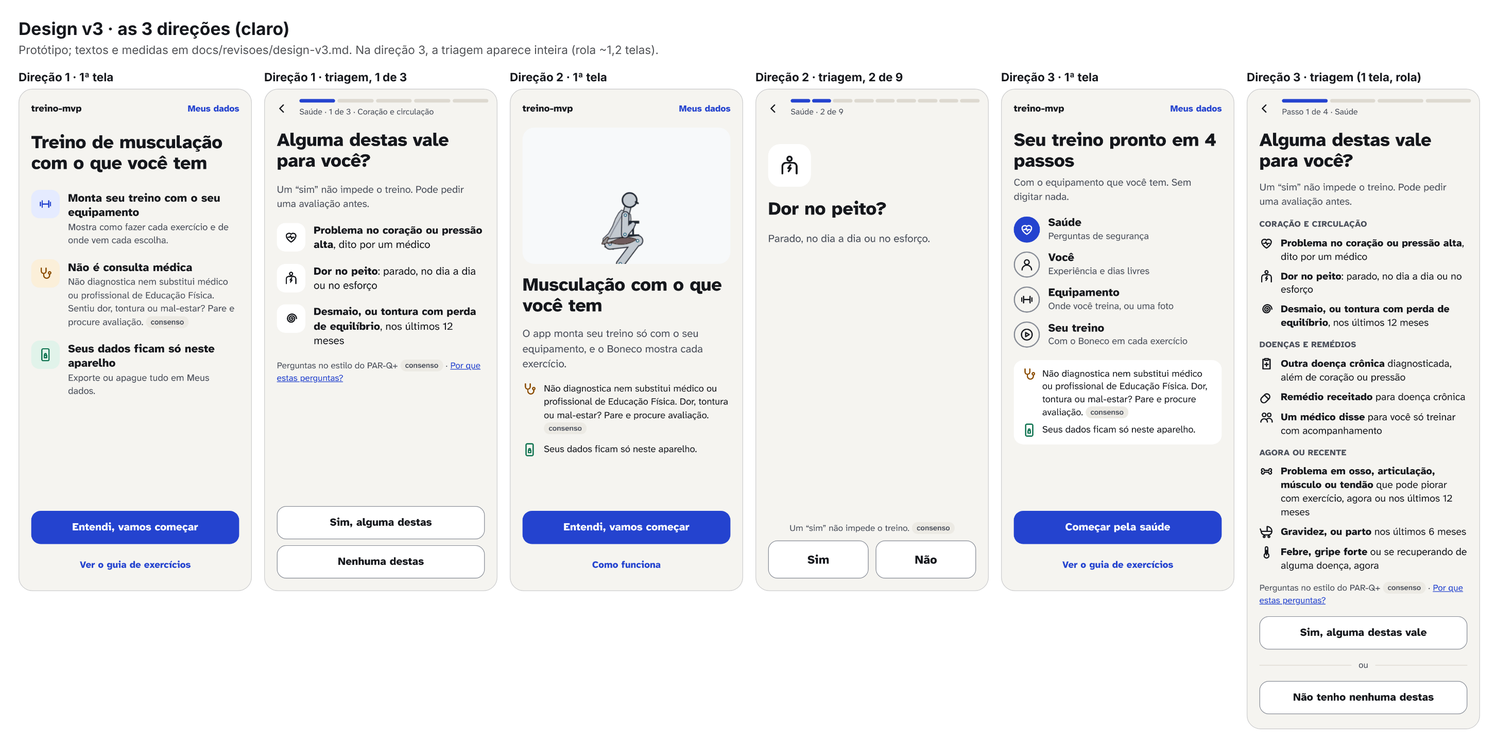
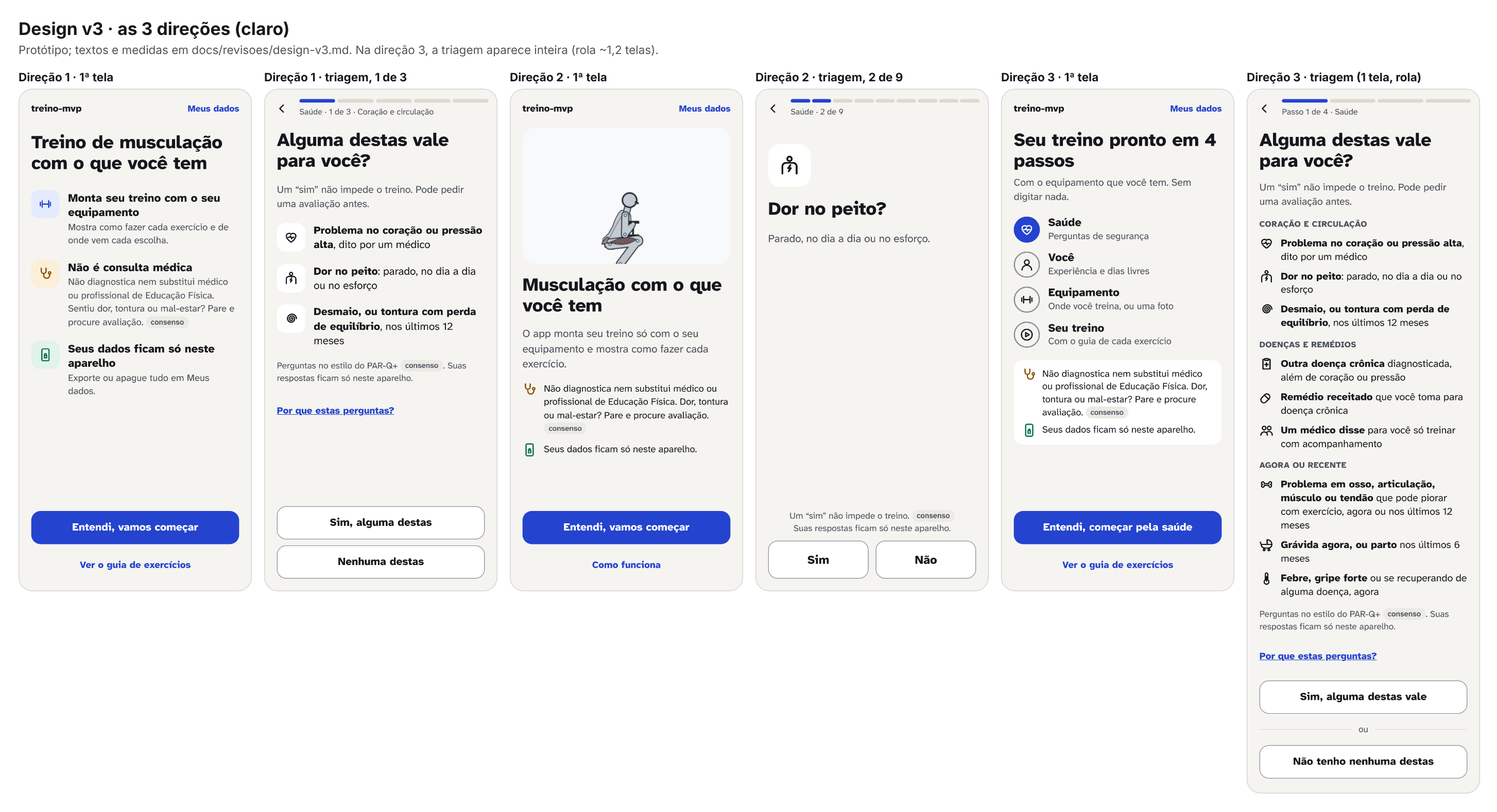
Aplica o parecer do guardião: critérios completos na triagem, selos corrigidos e a tela de pausa na decisão
Claude-Session: https://claude.ai/code/session_01WdnfTdvYNnthEXvVbN3fL1

diff --git a/docs/revisoes/design-v3/canvas/D3.dc.html b/docs/revisoes/design-v3/canvas/D3.dc.html
@@ -47,6 +47,7 @@ a{color:var(--acc)}a:hover{color:var(--ink)}
 .ou{display:flex;align-items:center;gap:12px;color:var(--ink2);font-size:15px}
 .ou::before,.ou::after{content:"";flex:1;height:1px;background:var(--line)}
 .nota{margin:0;font-size:15px;color:var(--ink2)}
+.linha48{display:flex;align-items:center;min-height:48px;font-weight:700;font-size:16px}
 .caixa{background:var(--surface);border-radius:16px;padding:16px 18px;display:flex;flex-direction:column;gap:8px}
 </style>
 </helmet>
@@ -63,7 +64,7 @@ a{color:var(--acc)}a:hover{color:var(--ink)}
 <li><span class="marco on"><svg class="ic" viewBox="0 0 24 24" aria-hidden="true"><path d="M12 20s-8-4.6-8-10.5A4.5 4.5 0 0 1 12 7a4.5 4.5 0 0 1 8 2.5C20 15.4 12 20 12 20zM7 12h2.5l1.5-2.5 2 5 1.5-2.5H17"></path></svg></span><div><b>Saúde</b><span class="d">Perguntas de segurança</span></div></li>
 <li><span class="marco"><svg class="ic" viewBox="0 0 24 24" aria-hidden="true"><circle cx="12" cy="8" r="4"></circle><path d="M4 21a8 8 0 0 1 16 0"></path></svg></span><div><b>Você</b><span class="d">Experiência e dias livres</span></div></li>
 <li><span class="marco"><svg class="ic" viewBox="0 0 24 24" aria-hidden="true"><path d="M6.5 6.5v11M17.5 6.5v11M3.5 9v6M20.5 9v6M6.5 12h11"></path></svg></span><div><b>Equipamento</b><span class="d">Onde você treina, ou uma foto</span></div></li>
-<li><span class="marco"><svg class="ic" viewBox="0 0 24 24" aria-hidden="true"><circle cx="12" cy="12" r="9"></circle><path d="M10 8.5v7l6-3.5z"></path></svg></span><div><b>Seu treino</b><span class="d">Com o Boneco em cada exercício</span></div></li>
+<li><span class="marco"><svg class="ic" viewBox="0 0 24 24" aria-hidden="true"><circle cx="12" cy="12" r="9"></circle><path d="M10 8.5v7l6-3.5z"></path></svg></span><div><b>Seu treino</b><span class="d">Com o guia de cada exercício</span></div></li>
 </ul>
 <div class="ressalvas">
 <p><svg class="ic" viewBox="0 0 24 24" aria-hidden="true" style="color: var(--warn);"><path d="M5 3v5a4 4 0 0 0 8 0V3M9 12v3a5 5 0 0 0 10 0v-2"></path><circle cx="19" cy="11" r="2"></circle></svg><span>Não diagnostica nem substitui médico ou profissional de Educação Física. Dor, tontura ou mal-estar? Pare e procure avaliação. <span class="selo">consenso</span></span></p>
@@ -71,7 +72,7 @@ a{color:var(--acc)}a:hover{color:var(--ink)}
 </div>
 </div>
 <div class="pe">
-<button class="btn pri" type="button" onClick="{{comecar}}">Começar pela saúde</button>
+<button class="btn pri" type="button" onClick="{{comecar}}">Entendi, começar pela saúde</button>
 <button class="link" type="button">Ver o guia de exercícios</button>
 </div>
 </sc-if>
@@ -97,7 +98,8 @@ a{color:var(--acc)}a:hover{color:var(--ink)}
 </ul>
 </div>
 </sc-for>
-<p class="nota">Perguntas no estilo do PAR-Q+ <span class="selo">consenso</span> · <a href="#">Por que estas perguntas?</a></p>
+<p class="nota">Perguntas no estilo do PAR-Q+ <span class="selo">consenso</span>. Suas respostas ficam só neste aparelho.</p>
+<a class="linha48" href="#">Por que estas perguntas?</a>
 <button class="btn sec" type="button" onClick="{{sim}}">Sim, alguma destas vale</button>
 <div class="ou">ou</div>
 <button class="btn sec" type="button" onClick="{{nenhuma}}">Não tenho nenhuma destas</button>
@@ -134,11 +136,11 @@ var GRUPOS = [
     { d: 'M12 12a1.5 1.5 0 0 1 3 0a3 3 0 0 1-6 0a4.5 4.5 0 0 1 9 0a6 6 0 0 1-12 0a7.5 7.5 0 0 1 15 0', b: 'Desmaio, ou tontura com perda de equilíbrio', r: ', nos últimos 12 meses' } ] },
   { nome: 'Doenças e remédios', itens: [
     { d: 'M9 3h6v3H9zM8 4.5H6v16h12v-16h-2M12 10v6M9 13h6', b: 'Outra doença crônica', r: ' diagnosticada, além de coração ou pressão' },
-    { d: 'M10.5 20.5a5 5 0 0 1-7-7l6-6a5 5 0 0 1 7 7zM8.5 8.5l7 7', b: 'Remédio receitado', r: ' para doença crônica' },
+    { d: 'M10.5 20.5a5 5 0 0 1-7-7l6-6a5 5 0 0 1 7 7zM8.5 8.5l7 7', b: 'Remédio receitado', r: ' que você toma para doença crônica' },
     { d: circ(8, 8, 3) + circ(16.5, 8, 3) + 'M2.5 20a5.5 5.5 0 0 1 11 0M12 15.5a5.5 5.5 0 0 1 9.5 4.5', b: 'Um médico disse', r: ' para você só treinar com acompanhamento' } ] },
   { nome: 'Agora ou recente', itens: [
     { d: 'M8 10.5h8a2.3 2.3 0 1 1 2.6 1.5 2.3 2.3 0 1 1-2.6 1.5H8a2.3 2.3 0 1 1-2.6-1.5A2.3 2.3 0 1 1 8 10.5z', b: 'Problema em osso, articulação, músculo ou tendão', r: ' que pode piorar com exercício, agora ou nos últimos 12 meses' },
-    { d: 'M13 3a8 8 0 0 1 8 8h-8zM3 11h18a6 6 0 0 1-6 6H9a6 6 0 0 1-6-6zM3 11 1.5 7' + circ(8, 20, 1.5) + circ(16, 20, 1.5), b: 'Gravidez, ou parto', r: ' nos últimos 6 meses' },
+    { d: 'M13 3a8 8 0 0 1 8 8h-8zM3 11h18a6 6 0 0 1-6 6H9a6 6 0 0 1-6-6zM3 11 1.5 7' + circ(8, 20, 1.5) + circ(16, 20, 1.5), b: 'Grávida agora, ou parto', r: ' nos últimos 6 meses' },
     { d: 'M14 14.5V5a2 2 0 0 0-4 0v9.5a4 4 0 1 0 4 0zM12 9v8', b: 'Febre, gripe forte', r: ' ou se recuperando de alguma doença, agora' } ] }
 ];
 class Component extends DCLogic {

diff --git a/docs/revisoes/design-v3/canvas/D2.dc.html b/docs/revisoes/design-v3/canvas/D2.dc.html
@@ -52,7 +52,7 @@ a{color:var(--acc)}a:hover{color:var(--ink)}
 <div class="corpo" style="padding-top: 8px;">
 <div class="heroi"><img src="{{boneco}}" alt="O Boneco, o guia animado do app, fazendo um agachamento"></div>
 <h1 class="h1">Musculação com o que você tem</h1>
-<p class="sub">O app monta seu treino só com o seu equipamento, e o Boneco mostra cada exercício.</p>
+<p class="sub">O app monta seu treino só com o seu equipamento e mostra como fazer cada exercício.</p>
 <ul class="garantias">
 <li><svg class="ic" viewBox="0 0 24 24" aria-hidden="true" style="color: var(--warn);"><path d="M5 3v5a4 4 0 0 0 8 0V3M9 12v3a5 5 0 0 0 10 0v-2"></path><circle cx="19" cy="11" r="2"></circle></svg><span>Não diagnostica nem substitui médico ou profissional de Educação Física. Dor, tontura ou mal-estar? Pare e procure avaliação. <span class="selo">consenso</span></span></li>
 <li><svg class="ic" viewBox="0 0 24 24" aria-hidden="true" style="color: var(--ok);"><rect x="6" y="2" width="12" height="20" rx="2"></rect><path d="M10 13h4v4h-4zM10.5 13v-1.5a1.5 1.5 0 0 1 3 0V13"></path></svg><span>Seus dados ficam só neste aparelho.</span></li>
@@ -81,7 +81,7 @@ a{color:var(--acc)}a:hover{color:var(--ink)}
 <p class="sub">{{c.det}}</p>
 </div>
 <div class="pe">
-<p class="nota" style="text-align: center;">Um “sim” não impede o treino. <span class="selo">consenso</span></p>
+<p class="nota" style="text-align: center;">Um “sim” não impede o treino. <span class="selo">consenso</span><br>Suas respostas ficam só neste aparelho.</p>
 <div class="sn"><button type="button" class="{{clsSim}}" onClick="{{sim}}">Sim</button><button type="button" class="{{clsNao}}" onClick="{{nao}}">Não</button></div>
 </div>
 </sc-if>
@@ -114,7 +114,7 @@ var CONDS = [
   { d: circ(12, 4.5, 2.5) + 'M4 21v-8a4 4 0 0 1 4-4h8a4 4 0 0 1 4 4v8M13 11.5l-2.5 3.5h3L11 18.5', t: 'Dor no peito?', det: 'Parado, no dia a dia ou no esforço.' },
   { d: 'M12 12a1.5 1.5 0 0 1 3 0a3 3 0 0 1-6 0a4.5 4.5 0 0 1 9 0a6 6 0 0 1-12 0a7.5 7.5 0 0 1 15 0', t: 'Desmaio ou tontura?', det: 'Desmaio, ou tontura com perda de equilíbrio, nos últimos 12 meses.' },
   { d: 'M9 3h6v3H9zM8 4.5H6v16h12v-16h-2M12 10v6M9 13h6', t: 'Outra doença crônica?', det: 'Diagnosticada, além de problema no coração ou pressão alta.' },
-  { d: 'M10.5 20.5a5 5 0 0 1-7-7l6-6a5 5 0 0 1 7 7zM8.5 8.5l7 7', t: 'Remédio receitado?', det: 'Para alguma doença crônica.' },
+  { d: 'M10.5 20.5a5 5 0 0 1-7-7l6-6a5 5 0 0 1 7 7zM8.5 8.5l7 7', t: 'Remédio receitado?', det: 'Que você toma para alguma doença crônica.' },
   { d: 'M8 10.5h8a2.3 2.3 0 1 1 2.6 1.5 2.3 2.3 0 1 1-2.6 1.5H8a2.3 2.3 0 1 1-2.6-1.5A2.3 2.3 0 1 1 8 10.5z', t: 'Osso, articulação, músculo ou tendão?', det: 'Um problema que pode piorar com exercício, agora ou nos últimos 12 meses.' },
   { d: circ(8, 8, 3) + circ(16.5, 8, 3) + 'M2.5 20a5.5 5.5 0 0 1 11 0M12 15.5a5.5 5.5 0 0 1 9.5 4.5', t: 'Só com acompanhamento?', det: 'Um médico disse para você só fazer exercício com acompanhamento.' },
   { d: 'M13 3a8 8 0 0 1 8 8h-8zM3 11h18a6 6 0 0 1-6 6H9a6 6 0 0 1-6-6zM3 11 1.5 7' + circ(8, 20, 1.5) + circ(16, 20, 1.5), t: 'Gravidez ou parto?', det: 'Grávida agora, ou parto nos últimos 6 meses.' },

diff --git a/docs/revisoes/design-v3/canvas/Main.dc.html b/docs/revisoes/design-v3/canvas/Main.dc.html
@@ -49,6 +49,7 @@ a{color:var(--acc)}a:hover{color:var(--ink)}
 .opt{display:flex;align-items:center;gap:14px;width:100%;min-height:64px;padding:12px 18px;border-radius:16px;border:1.5px solid var(--edge);background:var(--surface);color:var(--ink);font:inherit;font-size:18px;font-weight:700;text-align:left;cursor:pointer;box-sizing:border-box}
 .opt.on{border:2px solid var(--acc);background:var(--accSoft);color:var(--acc)}
 .nota{margin:0;font-size:15px;color:var(--ink2)}
+.linha48{display:flex;align-items:center;min-height:48px;font-weight:700;font-size:16px}
 .caixa{background:var(--surface);border-radius:16px;padding:16px 18px;display:flex;flex-direction:column;gap:8px}
 </style>
 </helmet>
@@ -94,7 +95,8 @@ a{color:var(--acc)}a:hover{color:var(--ink)}
 </div></li>
 </sc-for>
 </ul>
-<p class="nota">Perguntas no estilo do PAR-Q+ <span class="selo">consenso</span> · <a href="#">Por que estas perguntas?</a></p>
+<p class="nota">Perguntas no estilo do PAR-Q+ <span class="selo">consenso</span>. Suas respostas ficam só neste aparelho.</p>
+<a class="linha48" href="#">Por que estas perguntas?</a>
 </div>
 <div class="pe">
 <sc-if value="{{modoLista}}" hint-placeholder-val="{{ true }}">
@@ -157,10 +159,10 @@ var COND = {
   2: { d: IC.peito, b: 'Dor no peito', r: ': parado, no dia a dia ou no esforço' },
   3: { d: IC.tontura, b: 'Desmaio, ou tontura com perda de equilíbrio', r: ', nos últimos 12 meses' },
   4: { d: IC.prancheta, b: 'Outra doença crônica', r: ' diagnosticada, além de coração ou pressão' },
-  5: { d: IC.capsula, b: 'Remédio receitado', r: ' para doença crônica' },
+  5: { d: IC.capsula, b: 'Remédio receitado', r: ' que você toma para doença crônica' },
   7: { d: IC.dupla, b: 'Um médico disse', r: ' para você só treinar com acompanhamento' },
   6: { d: IC.osso, b: 'Problema em osso, articulação, músculo ou tendão', r: ' que pode piorar com exercício, agora ou nos últimos 12 meses' },
-  8: { d: IC.carrinho, b: 'Gravidez, ou parto', r: ' nos últimos 6 meses' },
+  8: { d: IC.carrinho, b: 'Grávida agora, ou parto', r: ' nos últimos 6 meses' },
   9: { d: IC.termometro, b: 'Febre, gripe forte', r: ' ou se recuperando de alguma doença, agora' }
 };
 var BLOCOS = [[1, 2, 3], [4, 5, 7], [6, 8, 9]];

diff --git a/docs/revisoes/design-v3/guardiao.md b/docs/revisoes/design-v3/guardiao.md
@@ -1,0 +1,123 @@
+# Parecer do guardião das regras (design v3, papel 7, 03/11/2026)
+
+> Revisão independente da síntese (`../design-v3.md`), dos arquivos dos papéis e do protótipo (`canvas/`). Conferi tudo contra `CLAUDE.md`, `briefing.md`, `pesquisa/00-metodo.md`, `pesquisa/regras.md` (`seguranca.*`, `equipamento.atalhos`, `nivel.*`), `pesquisa/07-seguranca-triagem-niveis.md` e o código (`src/domain/triagem/index.ts`, `src/domain/nivel/index.ts`, `BoasVindas.tsx`, `Triagem.tsx`). Li o texto exato do protótipo nos arrays `COND` (Main, direção 1), `CONDS` (D2) e `GRUPOS` (D3). **Não mexi em código nem em outros arquivos.**
+>
+> Vereditos: **passa**, **passa com ajuste** (o ajuste vem escrito) ou **não passa**.
+
+## Em uma frase
+As 3 direções do protótipo mantêm as 9 condições e o "não faz" antes do botão, e nenhuma vaza dado privado. Mas **a síntese diz que "nenhum critério sai", e isso não é exato em 2 condições** (remédio e gravidez perdem o "agora"). **Os rótulos curtos e a frase curta do `visual.md` não passam.** E faltam na tabela "Para decidir" a tela de pausa e uma marcação de regra da direção 3.
+
+## 0. Não passa e ajustes obrigatórios (resumo)
+| # | O quê | Veredito | Ajuste exato |
+|---:|---|---|---|
+| A | `visual.md`: rótulos da triagem (§4, §6 e `visual/triagem-412.png`) e a frase "Não diagnostica nem substitui o médico" (1ª tela A e C) | **não passa** | Não usar nenhum desses textos. Os textos vêm de `textos.md` 2.1, com os ajustes do item B. Detalhe na seção 3. |
+| B | Texto das 9 condições, nas direções 1 e 3 | passa com ajuste | Nº 5: "**Remédio receitado** que você toma para doença crônica". Nº 8: "**Grávida agora, ou parto** nos últimos 6 meses". Na direção 2, nº 5: "Que você toma, para alguma doença crônica." |
+| C | Tabela "Para decidir" | passa com ajuste | Acrescentar o item "Tela de pausa: título, mensagem e a frase que a pessoa confirma" (**muda regra**: texto de `seguranca.triagem`). No item 2, anotar que a direção 3 também mexe em `seguranca.triagem.nenhuma` (rótulos e ordem dos botões). |
+| D | Síntese, seção 2: "Papel e tela dão o mesmo resultado… (Schwartz 2021) · robusta" | passa com ajuste | Citar Gwaltney 2008 e Muehlhausen 2015 para o "robusta". Schwartz 2021 é **um estudo**. Acrescentar a ressalva do próprio `pesquisa.md`: vale "desde que a pergunta e a resposta continuem as mesmas", o que **não** é o caso das 3 direções. |
+| E | "O Boneco mostra cada exercício" (D2) e "Com o Boneco em cada exercício" (D3) | passa com ajuste | Só 31 dos 106 exercícios têm animação aprovada; os outros aparecem como cartão de texto (princípio "Qualidade do guia"). Trocar por "mostra como fazer cada exercício". |
+| F | Botão da 1ª tela na direção 3 ("Começar pela saúde") | passa com ajuste | Esse toque grava `avisoAceitoEm`. O rótulo precisa dizer que a pessoa leu: "Entendi, começar pela saúde". |
+| G | "Por que estas perguntas?" (D1 e D3) | passa com ajuste | Hoje é um link dentro de uma frase de 15 px, com área de toque abaixo de 44 px. Tem de virar uma linha própria de 48 px. |
+
+## 1. Primeira tela
+| Direção | Veredito | Por quê |
+|---|---|---|
+| **1 · Três linhas** | **passa** | A frase inteira de `seguranca.sem-diagnostico` aparece antes de "Entendi, vamos começar", com o selo, e o mesmo vale para "Seus dados ficam só neste aparelho". Nada obrigatório fica escondido. |
+| **2 · Boneco** | **passa com ajuste** | O "não faz" inteiro, o selo e a linha de dados vêm antes do botão. "Como funciona" esconde só a promessa de evidência e o link do guia, e nada disso é obrigatório. Ajuste E: "o Boneco mostra cada exercício" promete mais do que o app entrega. O Boneco do topo é um quadro parado do goblet, que tem animação aprovada, e o motor não muda: ok. |
+| **3 · Caminho em 4 passos** | **passa com ajuste** | O "não faz" inteiro e a linha de dados vêm antes do botão. Ajustes E e F. "Sem digitar nada" não vale para "Outro" nos minutos nem para o código da foto. Sugiro "Quase sem digitar" ou tirar a frase. |
+
+Nas 3, sai "É uma ferramenta de orientação, não uma prescrição". O "não substitui profissional de Educação Física" já cobre a ideia, então aceito. **Recomendo** guardar a frase no "Saiba mais"/"Como funciona", porque prescrever é atribuição do profissional (CONFEF 488/2023, em `07`).
+
+## 2. Triagem
+| Direção | Veredito | Por quê |
+|---|---|---|
+| **1 · Três blocos** | **passa com ajuste** (e **muda regra**) | As 9 aparecem, 3 por tela, com os botões de mesmo peso, e o "sim" abre Sim/Não nas 3 do bloco. Ajustes: B, G, e **a 360 px cada bloco precisa caber inteiro junto com os botões**. Se não couber, os botões vão para o fim do bloco, para nenhum botão aparecer antes da 3ª condição (a mesma solução do `visual.md` para a lista). Quem decide é o Gustavo (`seguranca.triagem.nenhuma` e `.texto`). |
+| **2 · Uma por tela** | **passa com ajuste** (e **muda regra**) | O rótulo nunca aparece sozinho: o critério inteiro fica logo abaixo, nas 9. Sim e Não têm 64 px, com 12 px entre eles, e "‹" desfaz. Ajuste B (nº 5). É o formato com mais apoio na evidência (Smyth 2006, moderada) e o mais próximo do PAR-Q+. |
+| **3 · Lista curta** | **passa com ajuste** (e **muda regra**) | As 9 aparecem antes dos botões, e os botões ficam no fim da lista, não fixos. Ajustes B e G. Além disso, a síntese marca "só `.texto`", mas os botões mudam de rótulo ("Não tenho nenhuma destas"), de ordem (o "sim" vem antes) e de peso. A regra `seguranca.triagem.nenhuma` cita os rótulos de hoje, então precisa ser reescrita também. |
+
+Nas 3, o selo continua à vista ("No estilo do PAR-Q+ · consenso" em D1 e D3; "Um sim não impede o treino · consenso" em D2). A pílula única cobre `seguranca.triagem` e `.nenhuma`, as duas com o selo consenso. **Ajuste:** ao tocar, ela abre as duas regras (e `.texto`), cada uma com a sua fonte.
+
+**Recomendação (não obrigatória):** `pesquisa.md` (item 7) pedia "suas respostas ficam só neste aparelho" visível também na triagem, por causa da LGPD (art. 11, dado sensível). A síntese deixou isso de fora sem dizer. São 6 palavras no pé da triagem.
+
+## 3. O texto das 9 condições (palavra a palavra)
+Comparei com `PERGUNTAS` em `src/domain/triagem/index.ts`. O texto da síntese e o do `COND` (D1) e do `GRUPOS` (D3) são idênticos. D2 usa o rótulo como pergunta, com o critério logo abaixo.
+
+| # | Critério de hoje | Síntese / D1 / D3 | D2 | `visual.md` (esboço e imagem) |
+|---:|---|---|---|---|
+| 1 | médico disse; coração; pressão alta | ok | ok | ok ("dito por médico") |
+| 2 | repouso, dia a dia, esforço | ok | ok | **perde "dia a dia"** |
+| 3 | 12 meses; perder o equilíbrio por tontura; desmaio | ok | ok | **perde "perda de equilíbrio"** |
+| 4 | diagnosticada; além de coração ou pressão alta | ok ("pressão" sem "alta": sugiro "pressão alta") | ok | **perde "além de coração ou pressão"** (na imagem) |
+| 5 | **toma** (uso atual); receitado; doença crônica | **perde "toma"** → ajuste B | **perde "toma"** → ajuste B | perde "toma" |
+| 6 | 4 tecidos; hoje ou 12 meses; pode piorar com exercício | ok | ok | **perde "pode piorar com exercício" e "hoje"** |
+| 7 | médico disse; só com acompanhamento; **fazer exercício** | ok ("treinar": sugiro "fazer exercício", como na D2) | ok | ok |
+| 8 | **está** grávida; teve bebê; 6 meses | **"Gravidez" sem "agora"**: dá para ler como qualquer gravidez → ajuste B | ok ("Grávida agora") | ok |
+| 9 | febre; gripe forte; se recuperando; agora | ok | ok (o "agora" está no rótulo) | **perde "se recuperando"** (na imagem) |
+
+**Veredito:** texto da síntese, **passa com ajuste** (B). `visual.md`, **não passa** (item A). O esboço e as imagens do `visual.md` estão versionados e são fáceis de copiar na hora de implementar, por isso o veto precisa ficar escrito.
+
+**Ordem:** a 6ª e a 7ª trocam de lugar. Isso passa, porque o dado salvo usa o `id` da condição (`Respostas` é um registro por `id`), e não a posição.
+
+**Teste que sugiro na implementação:** um teste no Vitest que confira, em `PERGUNTAS`, as palavras de cada critério: "12 meses", "6 meses", "receitado", "toma", "diagnosticada", "pode piorar com exercício", "médico", "agora", "dia a dia", "equilíbrio". Assim, nenhum texto encurtado passa sem ninguém ver.
+
+## 4. Resto do cadastro (C1 a C10)
+| # | Veredito | Por quê |
+|---|---|---|
+| **C1** Nível em 3 telas, avanço automático | **passa** | O toque responde e segue depois de 0,3 s. Dá para desfazer com o "‹" de 48 px e com o voltar do celular, porque cada pergunta tem o seu endereço. Na volta, a resposta fica marcada e a tela não avança sozinha. Com "reduzir movimento", não há deslize, e a pausa de 0,3 s não é movimento. O selo de `nivel.classificacao` vai para o "Tudo certo?". |
+| **C2** Pular a técnica quando não muda o nível | **passa com ajuste** | Conferi: `classificarNivel` dá "iniciante" com menos de 6 meses ou mais de 26 semanas parado, e a técnica não é usada em mais nada. Ajustes: (1) o esquema em `storage/esquema.ts` passa a aceitar a técnica em branco, com migração; (2) se a pessoa mudar o tempo no "Tudo certo?", a pergunta da técnica volta; (3) técnica em branco nunca vale "sim" (hoje o código já trata qualquer coisa diferente de "sim" como iniciante). |
+| **C3** Rotina em 2 telas | **passa** | Muda só a tela, e "Outro" não avança sozinho. |
+| **C4** Prioridade no "Tudo certo?" | **passa** | Sem escolha, o padrão é "nenhuma", como hoje. `volume.semanal.minimo-eficaz` não muda. |
+| **C5** Equipamento em 2 passos | **passa** | Nada vem marcado, os "às vezes tem" aparecem desmarcados e o atalho nunca desmarca nada. O comportamento de `equipamento.atalhos` fica igual. Na implementação, trocar "logo abaixo" por "na tela seguinte" no texto da regra (registro, não decisão). |
+| **C6** Frase da foto só na tela da foto | **passa com ajuste** | Obrigatório: usar o texto de `textos.md` (reduzida, sem localização, nada no servidor), acima de "Escolher fotos", sem dobra. A versão do `visual.md` ("não fica guardada") não serve. Recomendado: o "Seus dados ficam só neste aparelho" da 1ª tela é absoluto, mas a foto sai do aparelho. Uma frase mais exata: "Seu perfil e seus treinos ficam só neste aparelho." |
+| **C7** Regiões e dor em telas próprias | **passa** (e **muda regra**, leve: marcado certo) | O aviso "dor forte… pede avaliação" continua na tela da nota. O efeito de cada nota precisa aparecer no "Tudo certo?" com o selo de `seguranca.dor.programa`. A decisão é do Gustavo. |
+| **C8** Selo de uma palavra, um por bloco | **passa com ajuste** | Na rua, "consenso" quer dizer "consenso científico", e `00-metodo` proíbe promover consenso a ciência. Ajustes: (1) o selo abre com um toque e mostra o nome inteiro: "Consenso de especialistas (sem estudo que teste isso)". Hoje é um `title`, que não abre no celular. (2) Área de toque de 44 px. (3) Um selo por bloco só quando todas as regras do bloco têm o mesmo selo; se forem diferentes, vale um por regra ou o mais fraco. |
+| **C9** Botão principal sempre embaixo | **passa com ajuste** | Na triagem, o botão fixo só vale se tudo o que ele responde estiver à vista. A 360 px, a direção 1 segue o ajuste da seção 2, e a direção 3 já põe os botões no fim da lista. |
+| **C10** Glossário único | **passa** | Muda só palavras de tela. As frases que moram em `src/domain/` mudam junto com os testes que as conferem. |
+
+## 5. A recomendação do líder (direção 1)
+**Passa com ajuste.** Ela vem marcada como **[opinião]** e como "muda regra", e isso está certo. Ajuste: dizer ao Gustavo, na própria recomendação, que a direção 1 é uma **versão agrupada** ("nenhuma destas 3" vale como uma resposta só). `pesquisa.md` (item 5) desaconselha agrupar as 9 em 3 ou 4 perguntas, porque não há estudo de versão agrupada. Então o selo da nova `seguranca.triagem.nenhuma` fica **consenso** (`consenso-projeto`). A direção 2 é a que tem apoio de estudos (escolha forçada: Smyth 2006 e Callegaro 2015, moderada). O teste com 5 pessoas que a síntese sugere para as direções 1 e 3 deveria vir **antes** de implementar, e não depois.
+
+## 6. Tabela "Para decidir": as marcações
+| Item | Marcação | Confere? |
+|---:|---|---|
+| 1 | só tela | sim, com os ajustes E e F |
+| 2 | muda regra | sim. Corrigir o texto: as 3 direções mudam `.texto`, e a direção 3 também muda `.nenhuma` (rótulos e ordem) |
+| 3 | muda regra | sim, com o ajuste B |
+| 4 | só tela | sim: o peso igual tira o empurrão para o "nenhuma" e vai no sentido mais seguro. Mas a ordem dos botões na direção 3 entra no item 2 |
+| 5 | só tela | sim, desde que a pílula abra as duas regras. O "Por que" esconde só explicação, e cada botão diz o que faz |
+| 6 | só tela | sim, com o ajuste do C8 |
+| 7 | só tela | sim, com o ajuste do C6 |
+| 8 a 12, 14 | só tela | sim (C2 muda o dado salvo, não a regra) |
+| 13 | muda regra (leve) | sim |
+| 15 | — | Acrescentar: "cada bloco da triagem cabe com os botões a 360 px" e o teste de palavras da seção 3 |
+| **falta** | — | **A tela de pausa.** `textos.md` 2.6 troca o título, a mensagem de `avaliarTriagem` e a frase que a pessoa confirma ("…me avaliou e me liberou"). É o texto de `seguranca.triagem` que a pessoa "assina": **muda regra (texto)** e precisa do OK do Gustavo. |
+
+Nenhum item marcado "só tela" muda o que a pessoa responde numa regra de segurança. O item que muda isso sem estar na tabela é a pausa.
+
+## 7. Evidência: amostra de 6 citações de `pesquisa.md`
+| Citação | Selo / status | Coerente com `00-metodo`? |
+|---|---|---|
+| Smyth et al. 2006 (*POQ*, doi) | moderada, verificado-busca | **sim** ("um grupo, resultados consistentes") |
+| Höhne e Lenzner 2015 (doi) | um estudo, verificado-busca | **sim** |
+| Krosnick 1991 | robusta | **não**: robusta pede várias meta-análises, e esta é uma teoria. Rebaixar para **moderada**, ou citar as meta-análises |
+| Callegaro et al. 2015 | moderada, verificado-busca | **status não**: sem DOI, PMID ou PMCID, não é "verificado-busca". Anotar o DOI ou marcar NÃO VERIFICADO |
+| Morkes e Nielsen 1997 | um estudo, "verificado-busca (via páginas secundárias)" | **status não**: "só visto em material secundário" é NÃO VERIFICADO pela própria definição. O mesmo vale para NN/g *Icon usability* e para a LGPD ("só fontes secundárias") |
+| Schwartz 2021, na síntese | "robusta (formato)" | **não**: ver o ajuste D |
+
+Não achei sinal de estudo inventado. O que não foi lido está marcado (PAR-Q+ 2025 e Kaplan 2025 como NÃO VERIFICADO). Nenhuma dessas fontes vira texto do app nem constante em `src/domain/`. São justificativa para o Gustavo, por isso os ajustes não bloqueiam a decisão, mas devem ser feitos antes de a síntese ir para ele.
+
+## 8. Privacidade e repositório
+- `git ls-files | grep -i privado`: vazio. Fora `.env.example`, nenhum `.env` nem foto versionada. `tests/repo/privacidade.test.ts`: 3 de 3 passam.
+- As medidas usam a persona fictícia Ana (`scripts/design/palavras.spec.ts`), e as imagens do protótipo são do Boneco, hospedadas no canvas e não no repositório.
+- As 3 direções dizem "dados no aparelho" antes da triagem. A frase da foto fica antes do envio (C6, com o ajuste). Fora a foto (`/api/vision`), o app não envia nada (conferi os `fetch` em `src/`).
+- A leitura jurídica da LGPD antes de abrir o app para outras pessoas continua pendente, e a síntese diz isso.
+
+## 9. Toque, contraste e movimento
+- Toques: botões de 56 a 64 px, chips de 48 e links de 48. As exceções são o link "Por que estas perguntas?" (ajuste G) e o selo tocável (C8).
+- Contraste: as combinações novas do `visual.md` passam (a mais baixa, a borda de controle sobre a superfície, dá 3,42:1). A proibida (a mesma borda sobre `--surface-2`, 2,84:1) não aparece no protótipo.
+- Movimento: o protótipo não tem transição. O Boneco do topo é um quadro parado. O avanço automático pode ser desfeito (C1). A tabela de `interacao.md` 1.6 cobre `prefers-reduced-motion`.
+
+## 10. O que mais o Gustavo precisa saber
+1. **O que está "à vista" no protótipo ainda não foi medido a 360 px** na triagem da direção 1. É a meta que mais pesa na segurança.
+2. **O texto final da triagem é um só para a lista, para o Sim/Não e para a pausa** ("Você respondeu sim em:"). Os ajustes do item B valem para os três lugares.
+3. **Mais "sim" (direções 1 e 2) significa mais gente na pausa.** A triagem com perguntas de acompanhamento continua no backlog, e é ela que reduz esse custo.
+4. **Em todas as direções, um "Não" tocado por engano passa sem revisão** (hoje também é assim com "Nenhuma vale para mim"). Na direção 2, com avanço automático, isso pesa mais. Fica para o teste com gente.

diff --git a/docs/revisoes/design-v3.md b/docs/revisoes/design-v3.md
@@ -9,7 +9,7 @@
 > Selos como em `pesquisa/00-metodo.md`. O que é opinião está marcado **[opinião]**. Todos os números de "depois" são contagem sobre o protótipo, não medida com gente.
 
 ## Em uma frase
-O problema não é acessibilidade técnica (0 toque pequeno e 0 contraste baixo em todas as telas), é **quantidade de texto e de rolagem**: até o programa, a pessoa encontra de 860 a 980 palavras, e o botão da 1ª tela, da triagem e do nível fica fora da vista. As 3 direções cortam a 1ª tela para 50 a 70 palavras, com o botão à vista, e fazem a triagem caber em telas que se leem de relance, **sem tirar nenhuma das 9 condições nem nenhum critério** (prazos de 12 e 6 meses, "receitado", "pode piorar com exercício", "dito por um médico").
+O problema não é acessibilidade técnica (0 toque pequeno e 0 contraste baixo em todas as telas), é **quantidade de texto e de rolagem**: até o programa, a pessoa encontra de 860 a 980 palavras, e o botão da 1ª tela, da triagem e do nível fica fora da vista. As 3 direções cortam a 1ª tela para 50 a 70 palavras, com o botão à vista, e fazem a triagem caber em telas que se leem de relance, **sem tirar nenhuma das 9 condições nem nenhum critério** (prazos de 12 e 6 meses, "receitado", "que você toma", "agora", "pode piorar com exercício", "dito por um médico"). Na 1ª versão da síntese, duas condições tinham perdido o "agora" ou o "toma": o guardião pegou, e o texto abaixo já está corrigido.
 
 ## 1. O antes (medido)
 ![Cadastro de hoje](../img/v3-antes-cadastro.png)
@@ -32,10 +32,11 @@ Detalhes em `design-v3/medidas.md` (script `scripts/design/palavras.spec.ts`, 41
 | Achado | Selo |
 |---|---|
 | "Sim ou não" em cada item faz a pessoa pensar em cada um e marcar mais que "marque o que se aplica"; uma lista com um botão "nenhuma" no fim funciona como o "marque o que se aplica" (Smyth et al. 2006; Callegaro et al. 2015, que também alerta para a aquiescência). | moderada |
-| Quando falta motivação, a pessoa escolhe a primeira resposta aceitável (satisficing); a triagem vem antes de qualquer recompensa, o pior momento para leitura longa (Krosnick 1991). | robusta |
+| Quando falta motivação, a pessoa escolhe a primeira resposta aceitável (satisficing); a triagem vem antes de qualquer recompensa, o pior momento para leitura longa (Krosnick 1991). | moderada |
 | Numa lista vertical, o olho pula opções, e as últimas são as menos lidas (Höhne e Lenzner 2015). | um estudo |
 | Quando a pessoa pode responder "nenhuma", o padrão de governo põe a opção por último, depois de um "ou", com um rótulo que repete a pergunta (GOV.UK, *Checkboxes*). | consenso |
-| Papel e tela dão o mesmo resultado em questionários de saúde; o PAR-Q+ brasileiro foi respondido em parte on-line (Schwartz 2021). | robusta (formato) |
+| Papel e tela dão o mesmo resultado em questionários de saúde **quando a pergunta é a mesma** (Gwaltney 2008; Muehlhausen 2015). Aqui o texto e o formato mudam, então isso não garante nada para a versão nova. | robusta (só para a mesma pergunta) |
+| O PAR-Q+ brasileiro foi respondido em parte on-line, com boa reprodutibilidade (Schwartz 2021). | um estudo |
 | Leitura silenciosa de texto informativo: ~238 palavras/min em inglês (Brysbaert 2019); em pt-BR há só um estudo pequeno (Messias 2008). Os 200/min das contas são prudentes. | moderada / um estudo |
 | Só 35% dos adultos brasileiros estão nos níveis intermediário ou proficiente de letramento (INAF 2024): frase curta, ordem direta, palavra do dia a dia. | moderada |
 | Aviso repetido vira papel de parede (habituação); 74% pulam a política de privacidade (Obar 2018). | moderada; um estudo |
@@ -49,24 +50,26 @@ Detalhes em `design-v3/medidas.md` (script `scripts/design/palavras.spec.ts`, 41
 
 | | **Direção 1 · Três linhas e três blocos** | **Direção 2 · Boneco e uma por tela** | **Direção 3 · Caminho e lista curta** |
 |---|---|---|---|
-| **1ª tela** | Título e 3 linhas com ícone: o que faz, "Não é consulta médica" (a frase inteira, com o selo) e "Seus dados ficam só neste aparelho". | O Boneco grande em cima (um quadro do motor, sem mudança), título, uma frase e duas linhas: não diagnostica (frase inteira, selo) e dados no aparelho. "Como funciona" abre o resto. | "Seu treino pronto em 4 passos": saúde, você, equipamento, seu treino; embaixo, as mesmas duas linhas de segurança e dados. |
+| **1ª tela** | Título e 3 linhas com ícone: o que faz, "Não é consulta médica" (a frase inteira, com o selo) e "Seus dados ficam só neste aparelho". | O Boneco grande em cima (um quadro do motor, sem mudança), título, uma frase ("monta seu treino só com o seu equipamento e mostra como fazer cada exercício": só 31 dos 106 exercícios têm animação, então a frase não promete o Boneco em todos) e duas linhas: não diagnostica (frase inteira, selo) e dados no aparelho. "Como funciona" abre o resto. | "Seu treino pronto em 4 passos": saúde, você, equipamento, seu treino; embaixo, as mesmas duas linhas de segurança e dados. O botão diz "Entendi, começar pela saúde", porque é ele que registra que a pessoa viu o aviso. |
 | Palavras na 1ª tela (hoje 180) | **71** | **52** | **72** |
 | Botão à vista sem rolar | sim, fixo embaixo | sim, fixo embaixo | sim, fixo embaixo |
 | **Triagem** | **3 telas de 3 condições** (coração e circulação; doenças e remédios; agora ou recente). Em cada uma: "Sim, alguma destas" e "Nenhuma destas", do mesmo tamanho e peso. "Sim" abre Sim/Não só nas 3 daquela tela. | **Uma condição por tela**, em letra grande, com Sim e Não lado a lado; o toque responde e segue. Não há "nenhuma". | **Uma tela com as 9**, em 3 grupos com ícone. No fim da lista: "Sim, alguma destas vale", depois um "ou", e "Não tenho nenhuma destas". "Sim" leva às 9 com Sim/Não, como hoje. |
-| Palavras por tela da triagem (hoje 171 numa tela de 1,52 alturas) | 54 a 66, sem rolar | 19 a 31 | ~134, ~1,2 alturas **[a medir]** |
+| Palavras por tela da triagem (hoje 171 numa tela de 1,52 alturas) | 60 a 75, sem rolar a 412 px (a 360 px, **a medir**: se não couber, os botões vão para o fim do bloco) | 25 a 37 | ~145, ~1,3 alturas **[a medir]** |
 | Toques de quem não tem nada (hoje 1) | 3 | 9 | 1 |
 | Risco de responder sem ler **[opinião]** | baixo a médio | médio (9 "não" viram ritmo) | médio a alto (uma decisão para 9) |
 | Mais perto do PAR-Q+ | médio | **o mais fiel** (sim ou não em cada uma) | o mais distante (como hoje) |
-| Muda regra? | **sim**: `seguranca.triagem.nenhuma` (o "nenhuma" vale por bloco) e `.texto` | **sim**: `seguranca.triagem.nenhuma` (o atalho some) e `.texto` | **só** `seguranca.triagem.texto` (o "nenhuma" continua um toque, no fim da lista) |
+| Muda regra? | **sim**: `seguranca.triagem.nenhuma` (o "nenhuma" vale por bloco) e `.texto` | **sim**: `seguranca.triagem.nenhuma` (o atalho some) e `.texto` | **sim**: `seguranca.triagem.texto` e, mais leve, `seguranca.triagem.nenhuma` (o rótulo e a ordem dos botões mudam; o "nenhuma" continua um toque, no fim da lista) |
+
+Nas 3 triagens, a linha do pé diz também "Suas respostas ficam só neste aparelho" (as respostas são dado de saúde, LGPD art. 11), e "Por que estas perguntas?" é uma linha de 48 px, não um link pequeno.
 
 As 1ªs telas e as triagens podem ser combinadas: por exemplo, a 1ª tela da direção 2 com a triagem da direção 1.
 
 **Descartado:** "Marque o que vale" (cada condição é uma linha que se marca; o botão diz "Nenhuma vale para mim" sem nada marcado). É o mais rápido (1 toque, ~18 s), mas as condições não marcadas viram "não" sem a pessoa responder, e quem tem uma condição não responde as outras 8. Fica registrado em `interacao.md`, formato D.
 
-**Recomendação do líder [opinião]: direção 1.** Para quem não tem nada, são 3 toques em vez de 1, mas é o único formato em que a pessoa vê as condições e os botões juntos, sem rolar, e decide 3 vezes sobre 3 frases curtas em vez de 1 vez sobre 9 frases longas. A direção 2 é a escolha se a prioridade for a fidelidade ao PAR-Q+. A direção 3 é a que menos muda regra.
+**Recomendação do líder [opinião]: direção 1, depois de um teste com 5 pessoas.** Para quem não tem nada, são 3 toques em vez de 1, mas é o único formato em que a pessoa vê as condições e os botões juntos, sem rolar, e decide 3 vezes sobre 3 frases curtas em vez de 1 vez sobre 9 frases longas. **Atenção (guardião):** ela é uma versão **agrupada** ("nenhuma destas 3" vale por 3 respostas), e não há estudo de versão agrupada: a regra nova fica com selo **consenso**. A direção 2 é a que tem apoio de estudos (sim ou não em cada uma: Smyth 2006, moderada). A direção 3 é a que menos muda regra. Por isso, antes de implementar, o certo é cronometrar 5 pessoas de leitura variada nas direções 1 e 2 (ou 1 e 3) e contar quem diz "não" sem ler.
 
 ### O texto das 9 condições (o mesmo nas 3 direções)
-Cada condição começa pela palavra-chave, em negrito, e termina com o critério inteiro. Soma: de 118 para 90 palavras. Nenhum critério sai. A tabela completa, com o que se perderia em cada corte que **não** foi proposto, está em `textos.md`, seção 2.1.
+Cada condição começa pela palavra-chave, em negrito, e termina com o critério inteiro. Soma: de 118 para 93 palavras. O mesmo texto vale na lista, no Sim/Não e na tela de pausa ("Você respondeu sim em:"). Nenhum critério sai. A tabela completa, com o que se perderia em cada corte que **não** foi proposto, está em `textos.md`, seção 2.1.
 
 | # | Hoje | Proposta |
 |---:|---|---|
@@ -74,10 +77,10 @@ Cada condição começa pela palavra-chave, em negrito, e termina com o critéri
 | 2 | Você sente dor no peito em repouso, no dia a dia ou quando faz esforço? | **Dor no peito**: parado, no dia a dia ou no esforço |
 | 3 | Nos últimos 12 meses, você perdeu o equilíbrio por tontura ou desmaiou? | **Desmaio, ou tontura com perda de equilíbrio**, nos últimos 12 meses |
 | 4 | Você tem alguma doença crônica diagnosticada além de problema no coração ou pressão alta? | **Outra doença crônica** diagnosticada, além de coração ou pressão |
-| 5 | Você toma remédio receitado para alguma doença crônica? | **Remédio receitado** para doença crônica |
+| 5 | Você toma remédio receitado para alguma doença crônica? | **Remédio receitado** que você toma para doença crônica |
 | 6 | Você tem hoje (ou teve nos últimos 12 meses) problema em osso, articulação, músculo ou tendão que pode piorar com exercício? | **Problema em osso, articulação, músculo ou tendão** que pode piorar com exercício, agora ou nos últimos 12 meses |
 | 7 | Algum médico já disse que você só deveria fazer exercício com acompanhamento? | **Um médico disse** para você só treinar com acompanhamento |
-| 8 | Você está grávida ou teve bebê nos últimos 6 meses? | **Gravidez, ou parto** nos últimos 6 meses |
+| 8 | Você está grávida ou teve bebê nos últimos 6 meses? | **Grávida agora, ou parto** nos últimos 6 meses |
 | 9 | Você está com febre, gripe forte ou se recuperando de alguma doença agora? | **Febre, gripe forte** ou se recuperando de alguma doença, agora |
 
 Na direção 2, cada tela usa o rótulo como pergunta ("Dor no peito?") e o critério inteiro logo abaixo; o rótulo nunca aparece sozinho.
@@ -111,8 +114,22 @@ Os textos e o visual de "Seu treino", treino, guia, fim e semana têm propostas 
 | Privacidade enxuta × aviso antes da triagem | A 1ª tela diz que os dados ficam no aparelho; a frase da foto fica onde a foto é enviada. |
 | Ordem das condições (os grupos trocam de lugar a 6ª e a 7ª) | Aceito: o número da pergunta não aparece mais na tela, e o dado salvo usa o nome da condição, não a posição. |
 
-## 7. Parecer do guardião das regras
-*(preenchido na revisão: seção abaixo)*
+## 7. Parecer do guardião das regras (íntegra em `design-v3/guardiao.md`)
+**Não passou:** os rótulos curtos e a frase curta de "não faz" do `visual.md` (e a imagem `visual/triagem-412.png`), que perdiam critérios ("no dia a dia", "perda de equilíbrio", "pode piorar com exercício", "se recuperando", "profissional de Educação Física", "pare e procure avaliação"). **O protótipo não usa esses textos**; vale `textos.md` 2.1, com os ajustes abaixo.
+
+**Ajustes obrigatórios, já feitos no protótipo e nesta síntese:**
+- condição 5 com "que você toma"; condição 8 com "Grávida agora";
+- a tela de pausa entrou na tabela de decisão (item 15, muda regra);
+- a direção 3 também mexe em `seguranca.triagem.nenhuma`;
+- o selo de "papel e tela" corrigido (robusta só para a mesma pergunta; Schwartz 2021 é um estudo); Krosnick 1991 rebaixado para moderada; Callegaro 2015, Morkes e Nielsen 1997, NN/g *Icon usability* e a LGPD marcados NÃO VERIFICADO em `pesquisa.md`;
+- direções 2 e 3 sem prometer o Boneco em todo exercício;
+- direção 3 com "Entendi, começar pela saúde";
+- "Por que estas perguntas?" numa linha de 48 px;
+- a recomendação diz que a direção 1 é agrupada e pede o teste com 5 pessoas antes de implementar.
+
+**Ajustes que ficam para a implementação:** a direção 1 precisa caber a 360 px com os botões (senão, os botões vão para o fim do bloco); no C2, o dado salvo precisa aceitar a técnica em branco, e a pergunta volta se a pessoa mudar o tempo de treino; no C6, a frase completa da foto fica acima de "Escolher fotos"; no C8, o selo de uma palavra precisa abrir com um toque e mostrar o nome inteiro (sozinho, "consenso" pode ser lido como consenso científico).
+
+**Passou:** a 1ª tela da direção 1; C1, C3, C4, C5, C7 e C10; a privacidade (nada de `privado/` versionado; `tests/repo/privacidade.test.ts` passando).
 
 ## 8. Para decidir (item a item, nada marcado)
 Para cada item: entra, não entra, ou entra de outro jeito.
@@ -133,7 +150,8 @@ Para cada item: entra, não entra, ou entra de outro jeito.
 | 12 | Equipamento em 2 passos, com "pela foto" como um dos cartões (C5) | só tela |
 | 13 | Regiões e dor de hoje em telas próprias (C7) | **sim (leve)** |
 | 14 | Glossário único (C10) | só tela |
-| 15 | Metas que viram teste: 1ª tela com até 75 palavras e o botão à vista a 360 px; nenhuma tela de pergunta do cadastro rolando a 412 px; até o programa com até 500 palavras ("academia completa"); toque e contraste como hoje | — |
+| 15 | Tela de pausa (quem diz sim): título, mensagem e a frase que a pessoa confirma ("me avaliou e me liberou"), na versão curta de `textos.md` 2.6 | **sim** (texto de `seguranca.triagem`) |
+| 16 | Metas que viram teste: 1ª tela com até 75 palavras e o botão à vista a 360 px; nenhuma tela de pergunta do cadastro rolando a 412 px; até o programa com até 500 palavras ("academia completa"); toque e contraste como hoje | — |
 
 ## 9. Riscos e o que não sei
 - **Sem teste com gente.** O protótipo serve para você usar com uma mão e cronometrar. A pesquisa sugere testar as direções 1 e 3 com 5 pessoas de leitura variada e contar quem diz "não" sem ler.

diff --git a/docs/revisoes/design-v3/visual.md b/docs/revisoes/design-v3/visual.md
@@ -1,5 +1,7 @@
 # Design visual (design v3, papel 4, 03/11/2026)
 
+> **Nota do líder, depois do guardião (`guardiao.md`):** os rótulos curtos da triagem e a frase curta de "não faz" deste arquivo e das imagens em `visual/` **não passaram**: perdem critérios. O sistema visual (hierarquia, ícones, ladrilhos, cores e contraste) continua valendo; os textos que valem são os de `textos.md` 2.1, com os ajustes de `design-v3.md`, seção 7.
+
 > Papel: hierarquia, letra, cor, espaço, ícones e ilustração. Parte do sistema da v2 (`../design-v2.md`) e o evolui. Não é uma 3ª reformulação.
 > Selos como em `docs/pesquisa/00-metodo.md`. As fontes vêm da v2, que leu só resumos. O que é opinião minha está marcado **[opinião]**.
 > **Nada mudou no app.** As telas abaixo são esboços em HTML, montados sobre o `src/styles.css` de hoje e medidos no Chromium a 412×915 e a 360×740, nos dois temas. As imagens estão em `visual/`.
